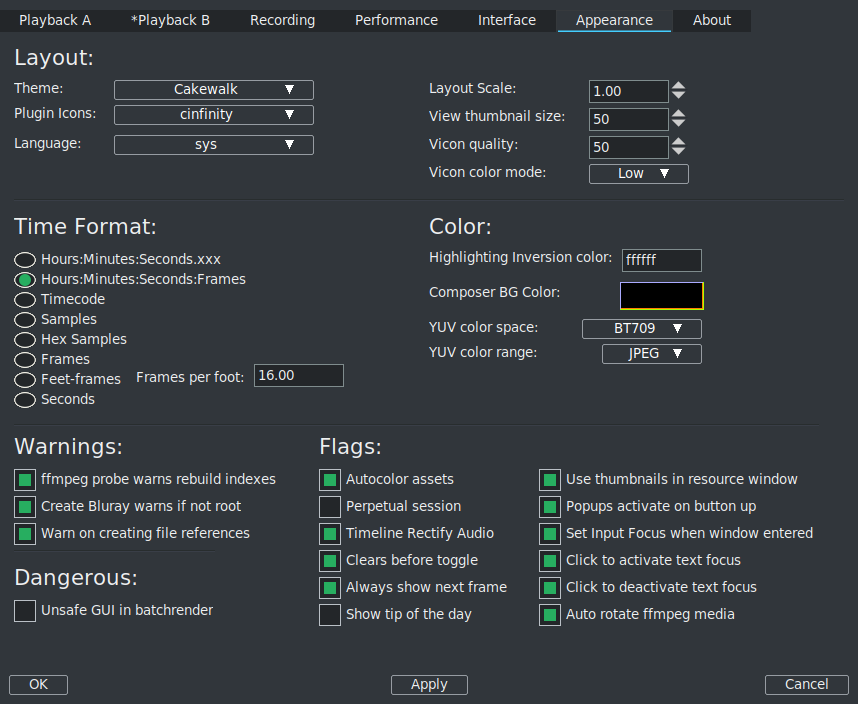
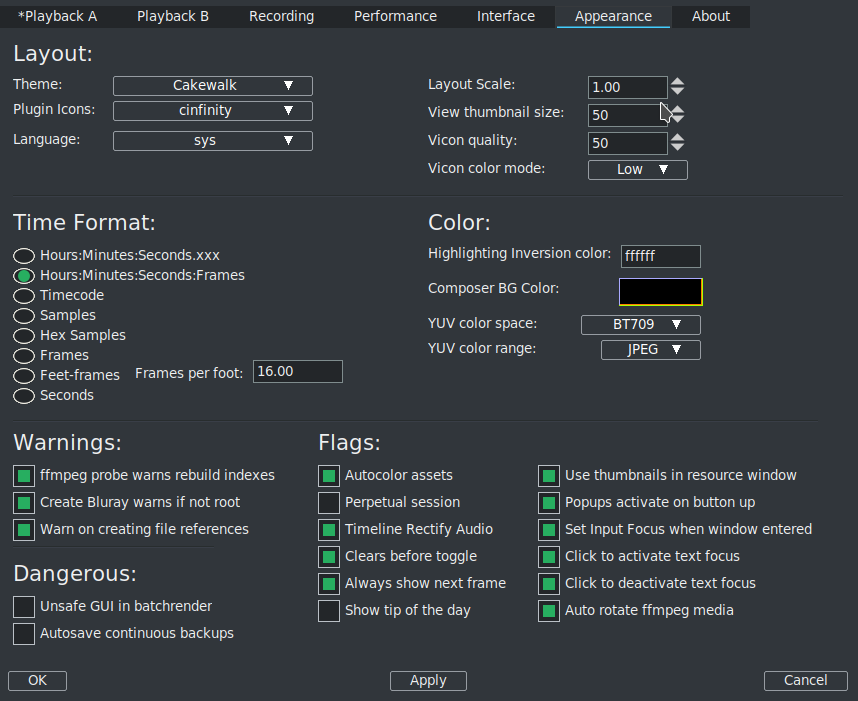
Andrea minor fixes

diff --git a/parts/Configuration.tex b/parts/Configuration.tex
@@ -11,8 +11,8 @@
     \label{fig:settings}
 \end{figure}
 
-The user's default settings, preferences, and other helpful files are retained across sessions in a hidden file, called .bcast5, in the user’s \texttt{\$HOME} directory. Initially when \CGG{} is launched there is an empty project and there are program default settings, and from then on the \texttt{.bcast5} directory will contain the settings that were set when quitting.  If you need to revert to the default settings, delete the \texttt{.bcast5} directory contents and restart \CGG{}.  Or you may want to rename it temporarily if you think you might want it back later.
-Although the location defaults to \texttt{\$HOME/.bcast5}, you can use the \texttt{CIN\_CONFIG} variable to override this location.  For example:  \texttt{export CIN\_CONFIG=/tmp/.bcast5}  will use a temporary setup for testing purposes.  It is also useful for multiple users sharing the same home directory who would like to have different configuration/preferences settings data.  And if you are experiencing inexplicable errors or crashes in \CGG{}, they may be due to a problem with \texttt{.bcast5} in which case taking it out of the picture  can at least eliminate this as the cause.
+The user's default settings, preferences, and other helpful files are retained across sessions in a hidden file, called \texttt{.bcast5}, in the user’s \texttt{\$HOME} directory. Initially when \CGG{} is launched there is an empty project and there are program default settings, and from then on the \texttt{.bcast5} directory will contain the settings that were set when quitting.  If you need to revert to the default settings, delete the \texttt{.bcast5} directory contents and restart \CGG{}.  Or you may want to rename it temporarily if you think you might want it back later.
+Although the location defaults to \texttt{\$HOME/.bcast5}, you can use the \texttt{CIN\_CONFIG} variable to override this location.  For example:  \texttt{export CIN\_CONFIG=/tmp/.bcast5}  will use a temporary setup for testing purposes.  It is also useful for multiple users sharing the same home directory who would like to have different configuration/preferences settings data.  And if you are experiencing inexplicable errors or crashes in \CGG{}, they may be due to a problem with \texttt{.bcast5} in which case taking it out of the picture  can at least eliminate this as the cause. Another use case is if we want multiple installations of \CGG{}, for example one stable and one experimental, we can create the \texttt{.bcastX} folder externally and then set it as default with the option \textit{Index files go here} in \nameref{sub:index_file_section}.
 
 Several ways exist to change \CGG{}’s operational characteristics.  A lot of variations can be made to  settings and preferences by using the \textit{Settings} pulldown from the main window and choosing \textit{Preferences}.
 
@@ -29,7 +29,7 @@ The \texttt{Settings $\rightarrow$ Preferences} menu has \textit{Playback A and 
 
 \begin{figure}[htpb]
 	\centering
-	\includegraphics[width=0.75\linewidth]{multi-screen01.png}
+	\includegraphics[width=0.9\linewidth]{multi-screen01.png}
 	\caption{Multi-screen Playback example useful for watching \CGG{} run on the \textit{big screen}}
 	\label{fig:multi-screen01}
 \end{figure}
@@ -363,6 +363,14 @@ Various representations of time are given so that you can select the most conven
 	\item[Create Bluray warns if not root] \index{warnings! bluray no root} if checked and you are not logged in as root, you will get an error message in order to avoid doing a lot of work and then failing out because root is required for automount and to write on DVD hardware.
 	\item[Warn on creating file references] \index{warnings! file by reference} if checked, you will always be warned when using "File by 
 	Reference", that is when an EDL is opened as \textit{Reference}.  This is best left checked to ensure that you are aware of the fact that when changes are made to this file and rendered, any other uses of the same file will be affected and modified also.	
+\end{description}
+
+\subsection{Dangerous section}%
+\label{sub:dangerous_section}
+
+\begin{description}
+	\item[Unsafe GUI in batchrender] It serves to hide the button \textit{Save to EDL Path} present in the Batch Render window. In fact if used accidentally, it could lead to the loss of the original EDL content, which is overwritten without changing the project name. See Batch Rendering, section \nameref{sub:advanced_features}.
+	\item[Autosave continuous backups] For each editing action \CGG{} creates an automatic backup. To avoid excessive creation, this option limits their number to 50.
 \end{description}
 
 \subsection{Flags section}%
